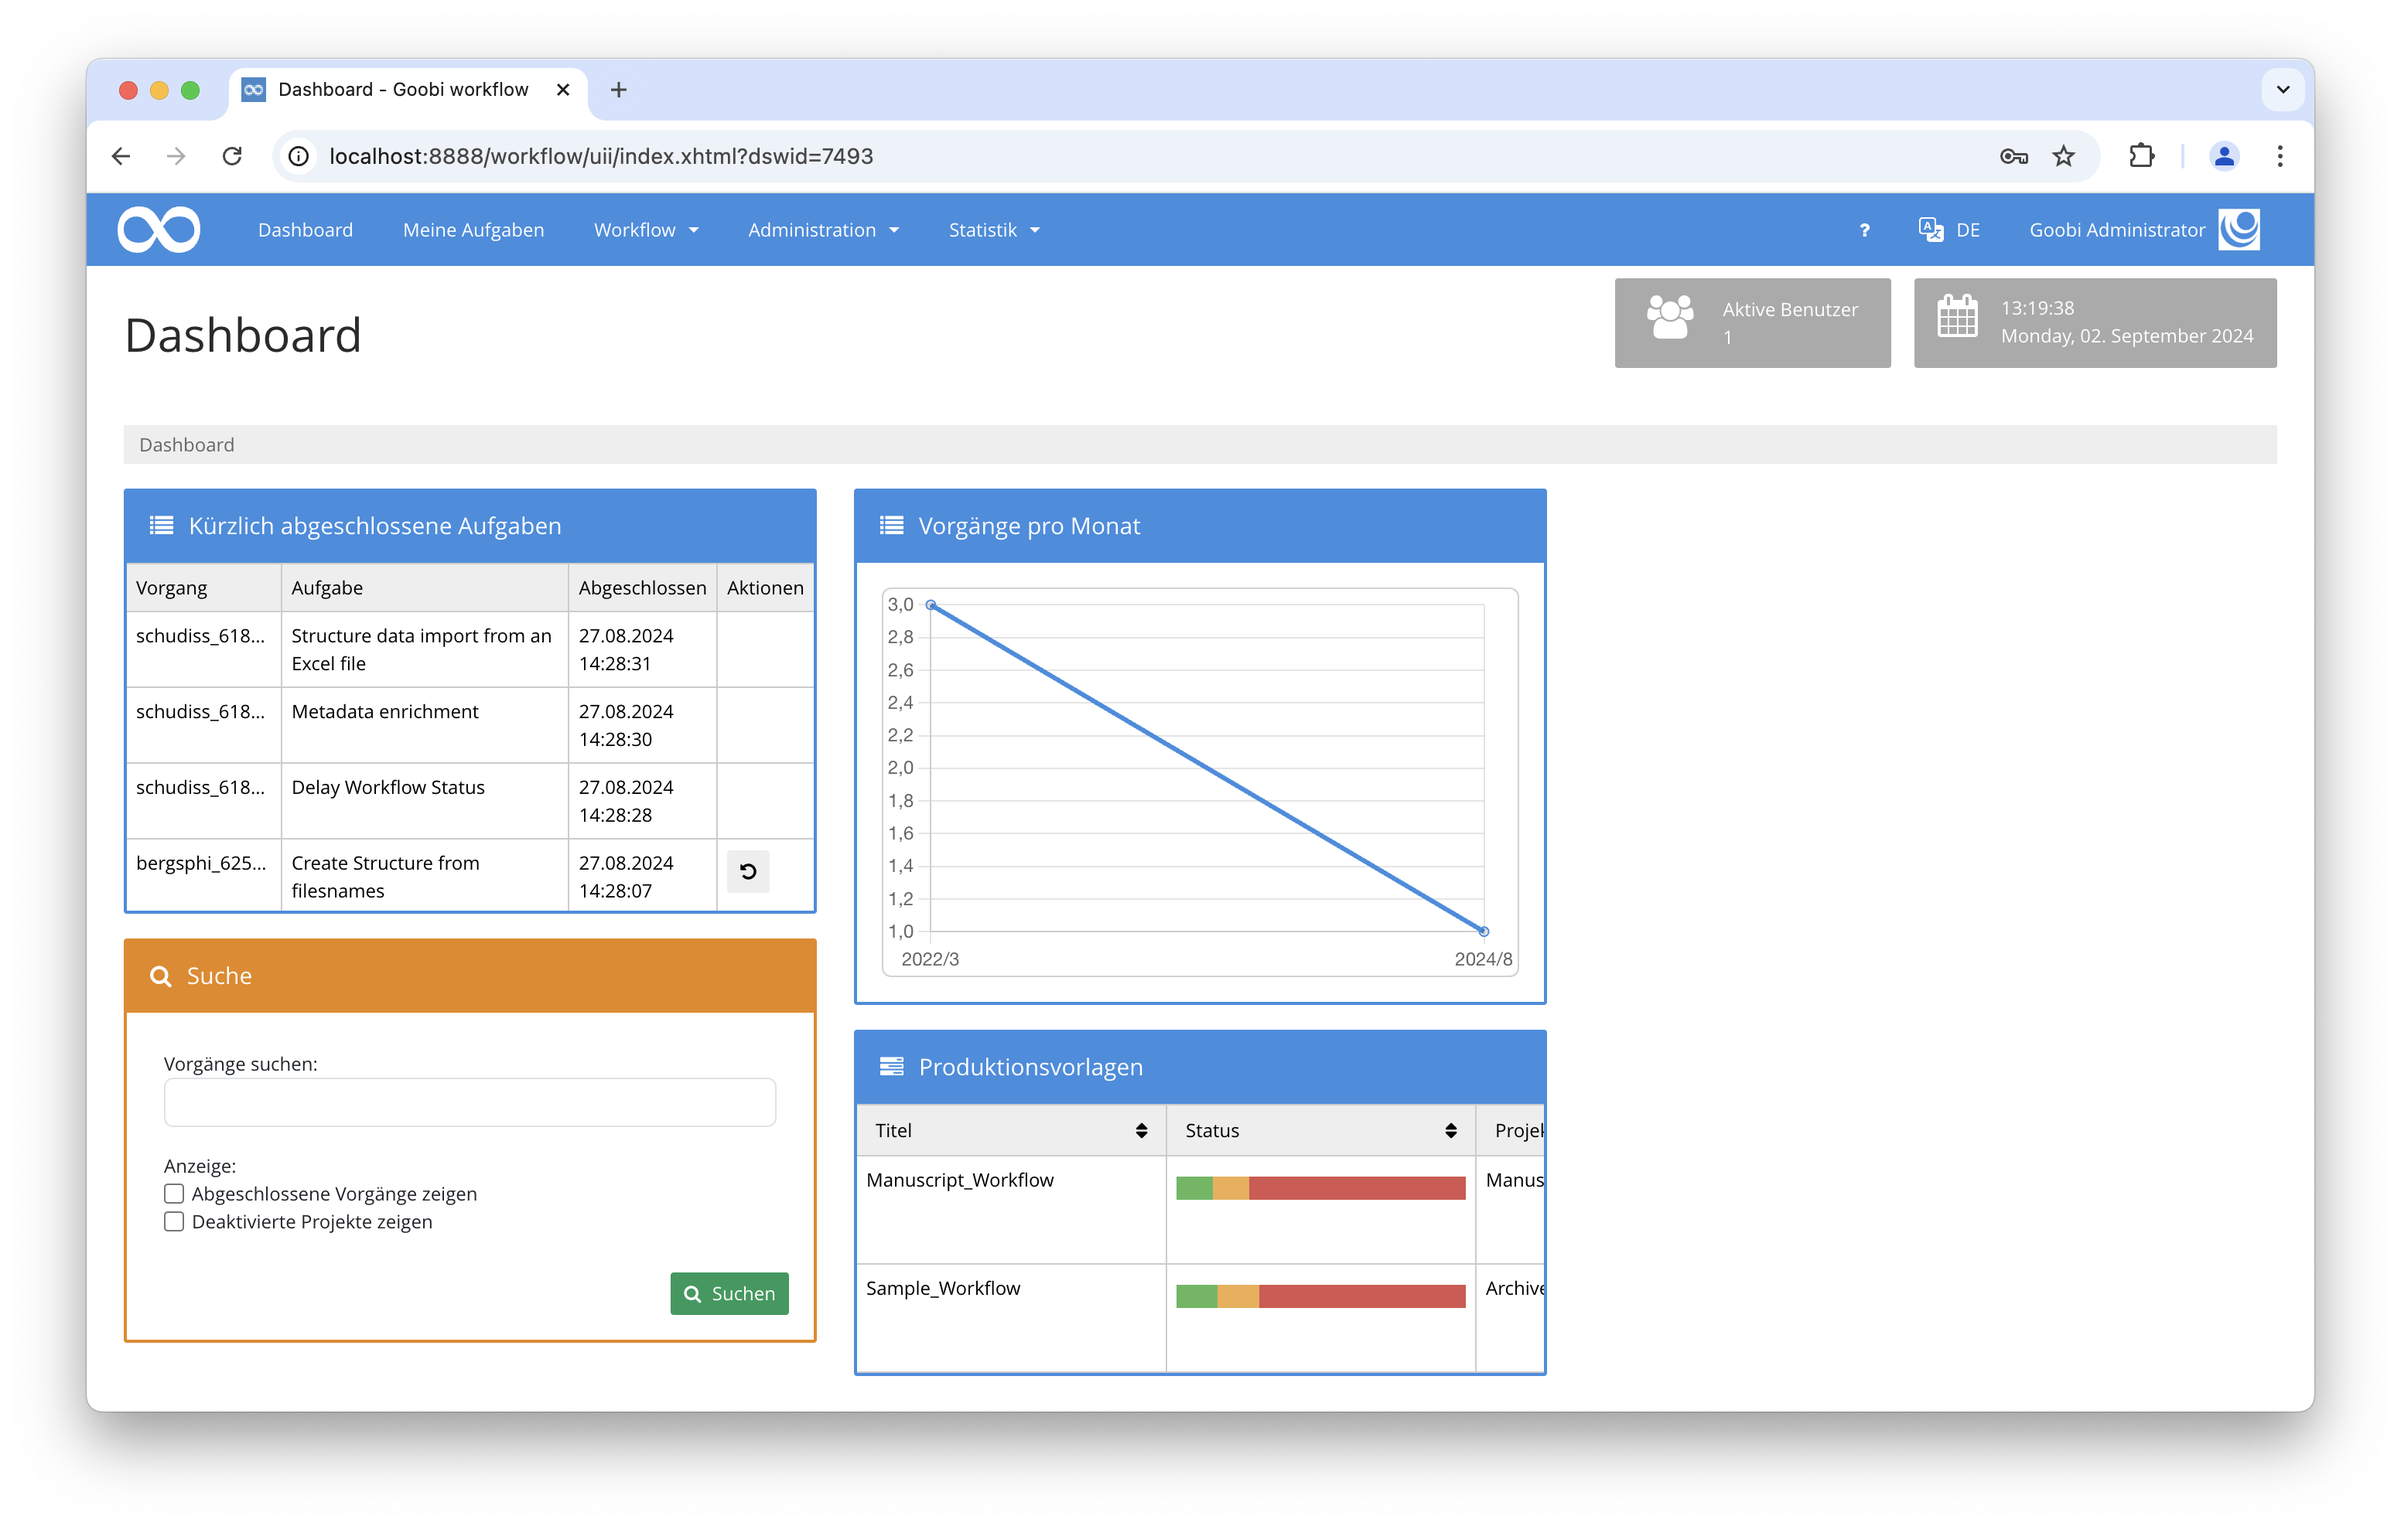
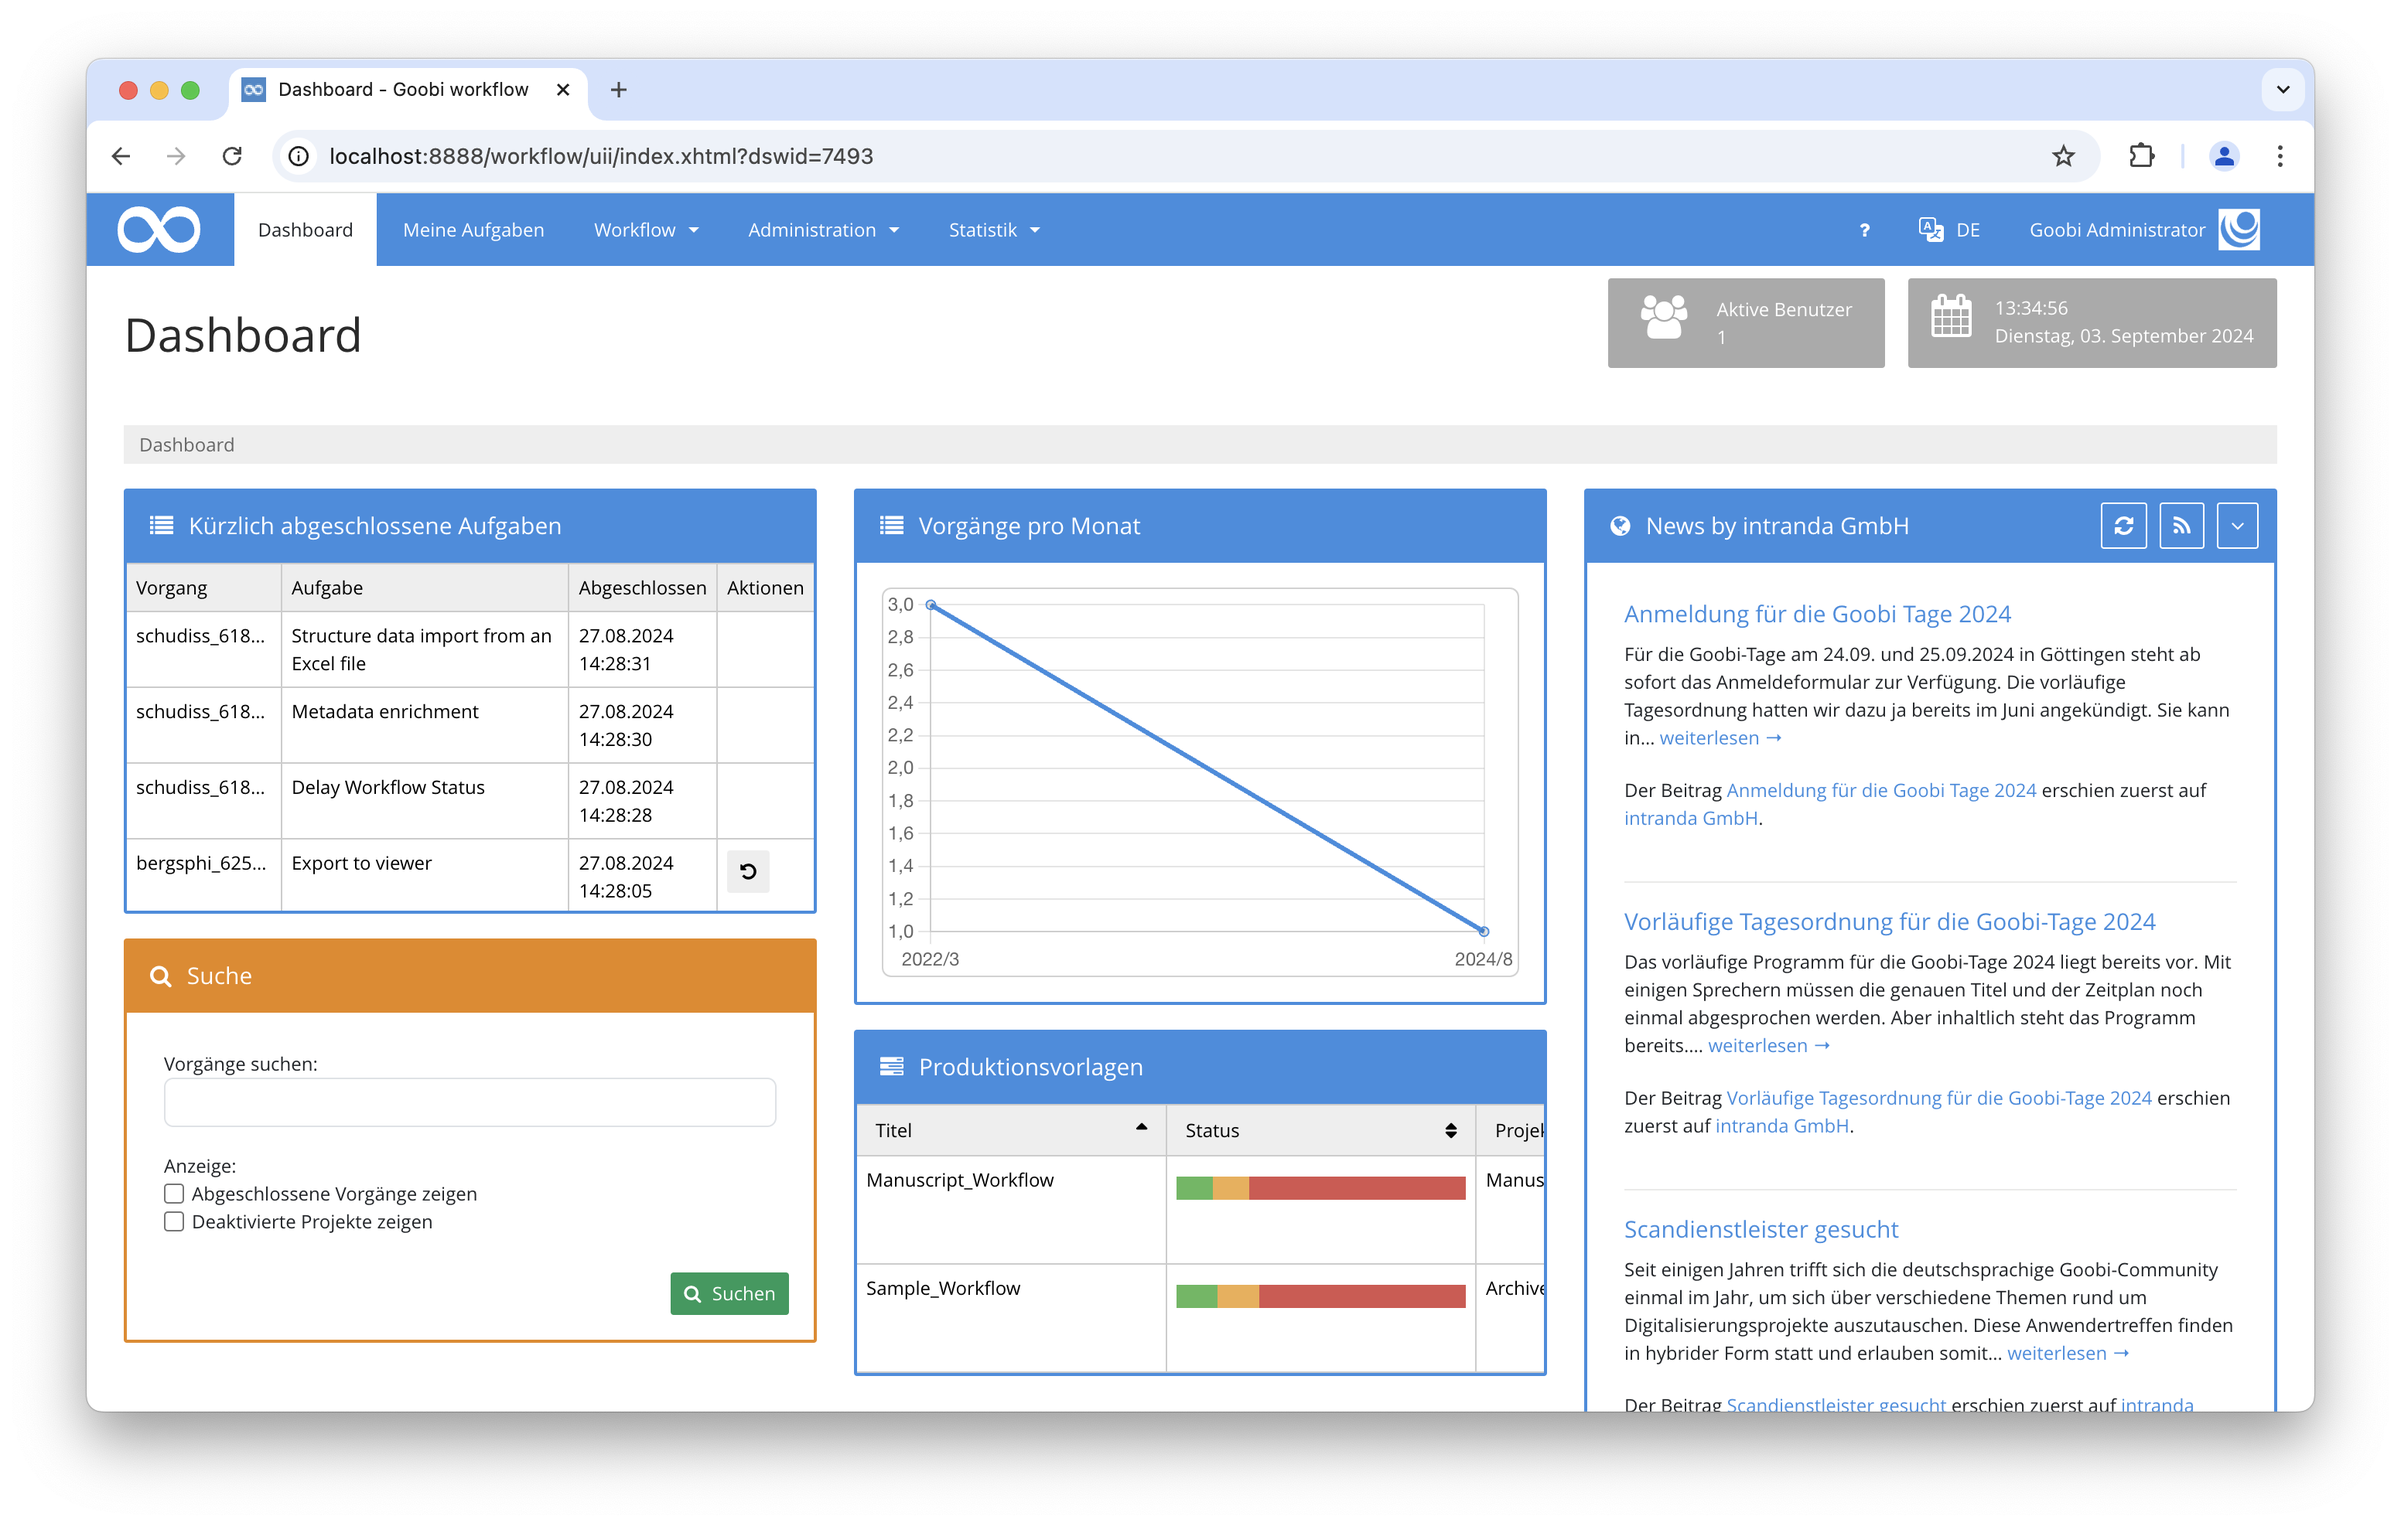
Changed documentation

diff --git a/docs/index_de.md b/docs/index_de.md
@@ -36,6 +36,13 @@ Die folgende Tabelle enthält eine Zusammenstellung der Parameter und ihrer Besc
 
 Parameter               | Erläuterung
 ------------------------|------------------------------------
+`<itm-show>`            | Dieser Parameter legt fest, ob die Aufgaben innerhalb des Intranda Task Managers angezeigt werden sollen.                              |
+`<itm-cache-time>`                      | Dieser Wert wird in Millisekunden angegeben und gibt an, wie lange es dauert, bis die Werte aus dem Intranda Task Manager neugeladen werden. | 
+`<itm-url>`                      | Hier wird die url angegeben, auf welcher der Intranda Task Manager erreichbar ist.|
+`<rss-show>`                      | Dieser Parameter legt fest, ob Neuigkeiten angezeigt werden sollen. | 
+`<rss-cache-time>`                      | Dieser Wert wird in Millisekunden angegeben und gibt an, wie lange es dauert, bis die Neuigkeiten neugeladen werden. |
+`<rss-url>`                      | Dieser Paramter legt fest, von welcher Webseite die die Neuigkeiten kommen sollen. | 
+`<rss-title>`                      | Hier wird der Titel der über den Neuigkeiten steht festgelegt. | 
 `<search-show>`                           | Dieser Parameter legt fest, ob das `Suche`-Feld angezeigt werden soll. |
 `<tasks-show>`                            | Dieser Parameter legt fest, ob das `Kürzlich abgeschlossene Aufgaben`-Feld angezeigt werden soll. |
 `<tasks-show-size>`                       | Hier wird festgelegt, wie viele der kürzlich abgeschlossenen Aufgaben angezeigt werden sollen. |
@@ -52,3 +59,4 @@ Parameter               | Erläuterung
 `<processTemplates-show-statusColumn>`    | Hier wird festgelegt, ob die Status-Spalte angezeigt werden soll. |
 `<processTemplates-show-projectColumn>`   | Hier wird festgelegt, ob die Projekt-Spalte angezeigt werden soll. |
 `<processTemplates-show-massImportButton>`| Hier wird festgelegt, ob der Massenimport-Knopf angezeigt werden soll. |
+`<queue-show>`                      | Dieser Parameter legt fest, ob im Dashboard angezeigt werden soll, wie viele Vorgänge gerade in der Warteschlange sind und entweder darauf warten oder aktuell bearbeitet werden. | 

diff --git a/docs/index_en.md b/docs/index_en.md
@@ -36,6 +36,13 @@ The following table contains a summary of the parameters and their descriptions:
 
 Parameter               | Explanation
 ------------------------|------------------------------------
+`<itm-show>`                              | This parameter determines whether tasks within the Intranda Task Manager should be displayed.|
+`<itm-cache-time>`                        | This value is specified in milliseconds and indicates how long it takes for the values from the Intranda Task Manager to be reloaded. | 
+`<itm-url>`                               | Here, the URL where the Intranda Task Manager is accessible is specified.|
+`<rss-show>`                              | This parameter determines whether news should be displayed. | 
+`<rss-cache-time>`                        | This value is specified in milliseconds and indicates how long it takes for the news to be reloaded. |
+`<rss-url>`                               | This parameter specifies from which website the news should come. | 
+`<rss-title>`                             |Here, the title displayed above the news is set. | 
 | `<search-show>`                         | This parameter determines whether the `Search` field should be displayed. |
 | `<tasks-show>`                          | This parameter determines whether the `Recently completed tasks` field should be displayed. |
 | `<tasks-show-size>`                     | Here you can specify how many of the recently completed tasks should be displayed. |
@@ -52,3 +59,4 @@ Parameter               | Explanation
 | `<processTemplates-show-statusColumn>`  | Here you can specify whether the status column should be displayed. |
 | `<processTemplates-show-projectColumn>` | Here you can specify whether the project column should be displayed. |
 | `<processTemplates-show-massImportButton>` | This parameter determines whether the mass import button should be displayed. |
+| `<queue-show>`                          | This parameter determines whether the dashboard should display how many processes are currently in the queue and are either waiting or being processed. | 
